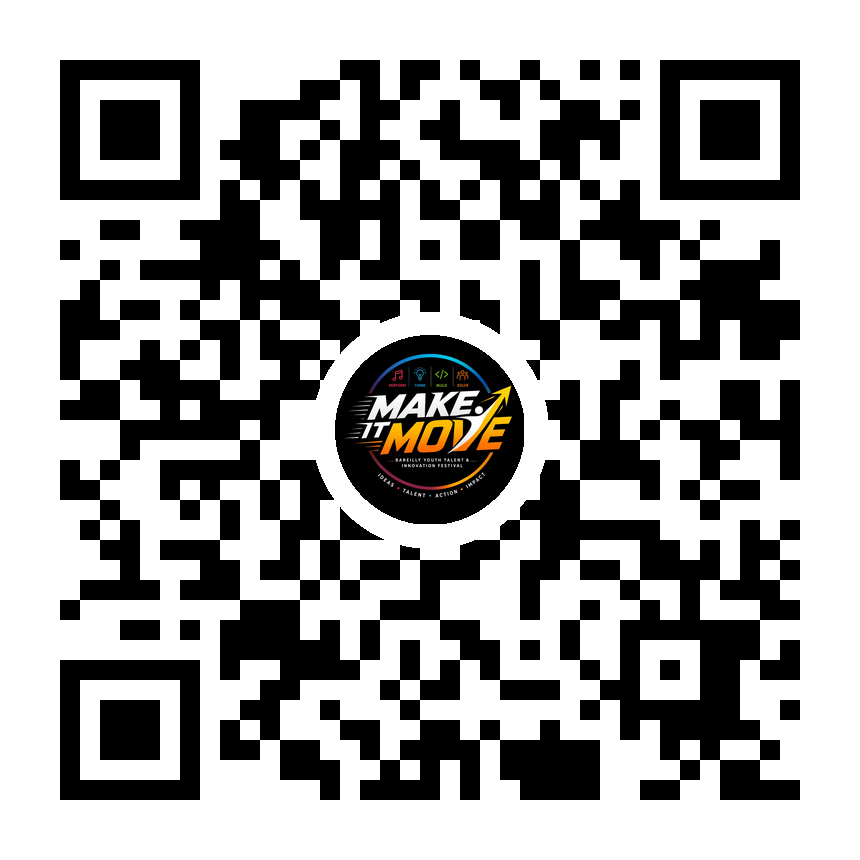
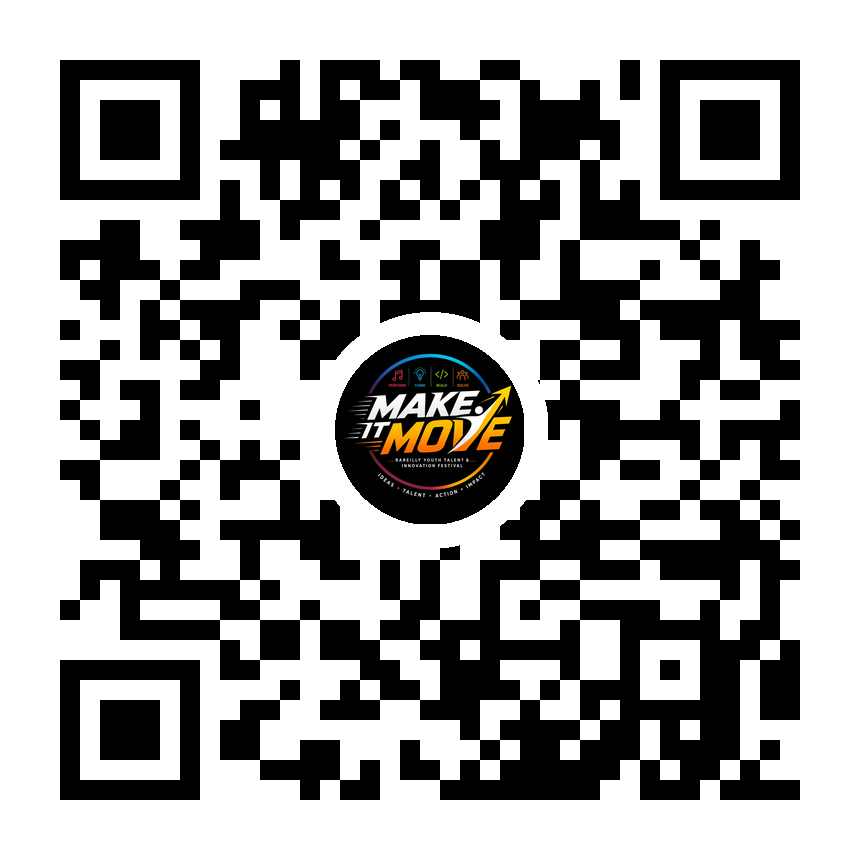
Move canonical site to aneja-research-foundation.github.io
New GitHub organization (Aneja-Research-Foundation) created, with a
repo named to match GitHub Pages' user/org-site convention
(aneja-research-foundation.github.io), giving the site its real name
as the URL instead of a personal username or a crowded acronym.

Updated every absolute URL reference (canonical tags, og:url,
og:image/twitter:image, sitemap.xml, robots.txt) to the new domain,
and regenerated + decode-verified the QR code again.

The old singhchanpreet802-source.github.io URL is kept live as a
mirror (pushed to both remotes) rather than broken outright, so
anything already shared there keeps working — but this org URL is
now the canonical one search engines and future sharing should use.

Changed region(s): [[0.0605, 0.0605, 0.9372, 0.9372], [0.6349, 0.7256, 0.6953, 0.8163]]

diff --git a/make-it-move.html b/make-it-move.html
@@ -10,20 +10,20 @@
 <meta property="og:title" content="MAKE IT MOVE 2026 — Bareilly's Youth Talent &amp; Innovation Festival">
 <meta property="og:description" content="Where talent meets ideas, technology, research and action. 24–25 October 2026, Bareilly, India. By Aneja Research Foundation.">
 <meta property="og:type" content="website">
-<meta property="og:image" content="https://singhchanpreet802-source.github.io/images/social-share.jpg">
+<meta property="og:image" content="https://aneja-research-foundation.github.io/images/social-share.jpg">
 <meta property="og:image:width" content="1200">
 <meta property="og:image:height" content="630">
-<meta property="og:url" content="https://singhchanpreet802-source.github.io/make-it-move.html">
+<meta property="og:url" content="https://aneja-research-foundation.github.io/make-it-move.html">
 <!-- Same content now also lives at the site root (index.html) as the
      temporary festival-season homepage — canonical points there so
      search engines index one, not both, as duplicates. -->
-<link rel="canonical" href="https://singhchanpreet802-source.github.io/">
+<link rel="canonical" href="https://aneja-research-foundation.github.io/">
 
 <!-- Twitter -->
 <meta name="twitter:card" content="summary_large_image">
 <meta name="twitter:title" content="MAKE IT MOVE 2026">
 <meta name="twitter:description" content="Bareilly's youth talent &amp; innovation festival. 24–25 October 2026.">
-<meta name="twitter:image" content="https://singhchanpreet802-source.github.io/images/social-share.jpg">
+<meta name="twitter:image" content="https://aneja-research-foundation.github.io/images/social-share.jpg">
 
 <link rel="stylesheet" href="mim-style.css?v=7">
 </head>
@@ -502,7 +502,7 @@
 
       <div class="footer-col">
         <h5>Scan To Visit</h5>
-        <img src="images/website-qr.png?v=2" alt="QR code linking to the MAKE IT MOVE 2026 website" style="width:96px;height:96px;border-radius:10px;object-fit:cover;">
+        <img src="images/website-qr.png?v=3" alt="QR code linking to the MAKE IT MOVE 2026 website" style="width:96px;height:96px;border-radius:10px;object-fit:cover;">
         <p style="margin-top:10px;font-size:13px;">Share this page anywhere — posters, stories, in person.</p>
       </div>
 

diff --git a/index.html b/index.html
@@ -11,17 +11,17 @@
 <meta property="og:title" content="MAKE IT MOVE 2026 — Bareilly's Youth Talent &amp; Innovation Festival">
 <meta property="og:description" content="Where talent meets ideas, technology, research and action. 24–25 October 2026, Bareilly, India. By Aneja Research Foundation.">
 <meta property="og:type" content="website">
-<meta property="og:image" content="https://singhchanpreet802-source.github.io/images/social-share.jpg">
+<meta property="og:image" content="https://aneja-research-foundation.github.io/images/social-share.jpg">
 <meta property="og:image:width" content="1200">
 <meta property="og:image:height" content="630">
-<meta property="og:url" content="https://singhchanpreet802-source.github.io/">
-<link rel="canonical" href="https://singhchanpreet802-source.github.io/">
+<meta property="og:url" content="https://aneja-research-foundation.github.io/">
+<link rel="canonical" href="https://aneja-research-foundation.github.io/">
 
 <!-- Twitter -->
 <meta name="twitter:card" content="summary_large_image">
 <meta name="twitter:title" content="MAKE IT MOVE 2026">
 <meta name="twitter:description" content="Bareilly's youth talent &amp; innovation festival. 24–25 October 2026.">
-<meta name="twitter:image" content="https://singhchanpreet802-source.github.io/images/social-share.jpg">
+<meta name="twitter:image" content="https://aneja-research-foundation.github.io/images/social-share.jpg">
 
 <link rel="stylesheet" href="mim-style.css?v=7">
 </head>
@@ -500,7 +500,7 @@
 
       <div class="footer-col">
         <h5>Scan To Visit</h5>
-        <img src="images/website-qr.png?v=2" alt="QR code linking to the MAKE IT MOVE 2026 website" style="width:96px;height:96px;border-radius:10px;object-fit:cover;">
+        <img src="images/website-qr.png?v=3" alt="QR code linking to the MAKE IT MOVE 2026 website" style="width:96px;height:96px;border-radius:10px;object-fit:cover;">
         <p style="margin-top:10px;font-size:13px;">Share this page anywhere — posters, stories, in person.</p>
       </div>
 

diff --git a/solve.html b/solve.html
@@ -8,7 +8,7 @@
 <meta property="og:title" content="SOLVE | MAKE IT MOVE 2026">
 <meta property="og:description" content="SOLVE challenges participants to look beyond the obvious and develop practical responses to real-world problems.">
 <meta property="og:type" content="website">
-<meta property="og:image" content="https://singhchanpreet802-source.github.io/images/social-share.jpg">
+<meta property="og:image" content="https://aneja-research-foundation.github.io/images/social-share.jpg">
 <meta property="og:image:width" content="1200">
 <meta property="og:image:height" content="630">
 <link rel="stylesheet" href="mim-style.css?v=7">

diff --git a/build.html b/build.html
@@ -8,7 +8,7 @@
 <meta property="og:title" content="BUILD | MAKE IT MOVE 2026">
 <meta property="og:description" content="BUILD is MAKE IT MOVE's technology and innovation arena.">
 <meta property="og:type" content="website">
-<meta property="og:image" content="https://singhchanpreet802-source.github.io/images/social-share.jpg">
+<meta property="og:image" content="https://aneja-research-foundation.github.io/images/social-share.jpg">
 <meta property="og:image:width" content="1200">
 <meta property="og:image:height" content="630">
 <link rel="stylesheet" href="mim-style.css?v=7">

diff --git a/think.html b/think.html
@@ -8,7 +8,7 @@
 <meta property="og:title" content="THINK | MAKE IT MOVE 2026">
 <meta property="og:description" content="THINK is the intellectual arena of MAKE IT MOVE.">
 <meta property="og:type" content="website">
-<meta property="og:image" content="https://singhchanpreet802-source.github.io/images/social-share.jpg">
+<meta property="og:image" content="https://aneja-research-foundation.github.io/images/social-share.jpg">
 <meta property="og:image:width" content="1200">
 <meta property="og:image:height" content="630">
 <link rel="stylesheet" href="mim-style.css?v=7">

diff --git a/perform.html b/perform.html
@@ -8,7 +8,7 @@
 <meta property="og:title" content="PERFORM | MAKE IT MOVE 2026">
 <meta property="og:description" content="PERFORM is where talent takes the spotlight.">
 <meta property="og:type" content="website">
-<meta property="og:image" content="https://singhchanpreet802-source.github.io/images/social-share.jpg">
+<meta property="og:image" content="https://aneja-research-foundation.github.io/images/social-share.jpg">
 <meta property="og:image:width" content="1200">
 <meta property="og:image:height" content="630">
 <link rel="stylesheet" href="mim-style.css?v=7">
